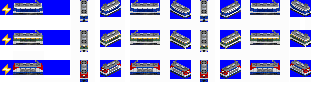
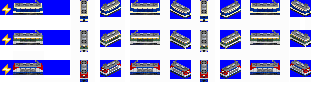
Change: K8000 white/blue livery, apply #241

Changed region(s): [[0.3183, 0.0222, 1.0, 0.2444], [0.2315, 0.0222, 0.2894, 0.2444], [0.0289, 0.0444, 0.1447, 0.1556]]

diff --git a/docs/changelog.md b/docs/changelog.md
@@ -6,7 +6,7 @@
  * 변경: 코레일 전동차 그래픽 개선 [#271]
  * 변경: 코레일 전동차(2019, 2021년 도입분) 스프라이트 개선 및 추가 [#295]
  * 변경: 의정부경전철 그래픽 변경 [#283]
- * 변경: 7x00호대 기관차 청백 도색 그래픽 변경 [#241]
+ * 변경: 7x00호대, 8000호대 기관차 청백 도색 그래픽 변경 [#241]
  * 수정: 2호선 개조 저항(초퍼) 차량의 팬터그래프 오류 수정 [#245]
  * 수정: CDC 열차의 천장 에어컨 개수 수정 [#255]
  * 수정: 평판 화차 갈색 도색의 일부 방향의 일부 그래픽이 파란색으로 남아있던 버그 [#262]
